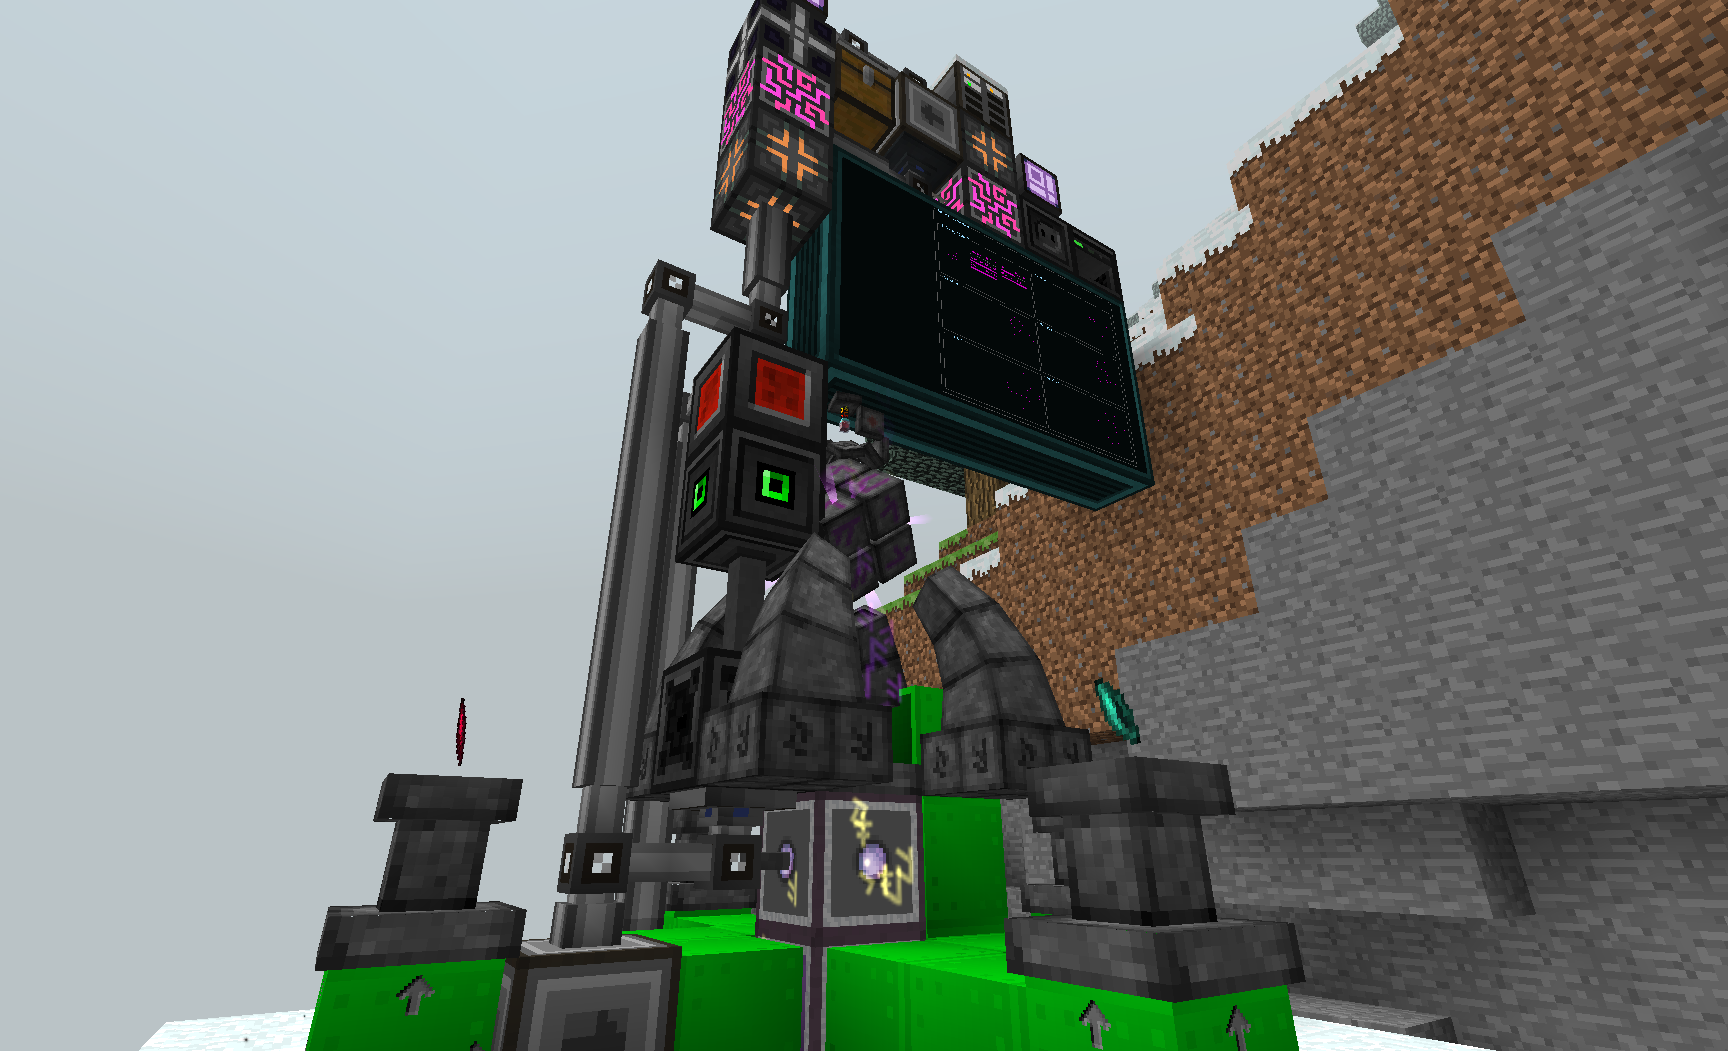
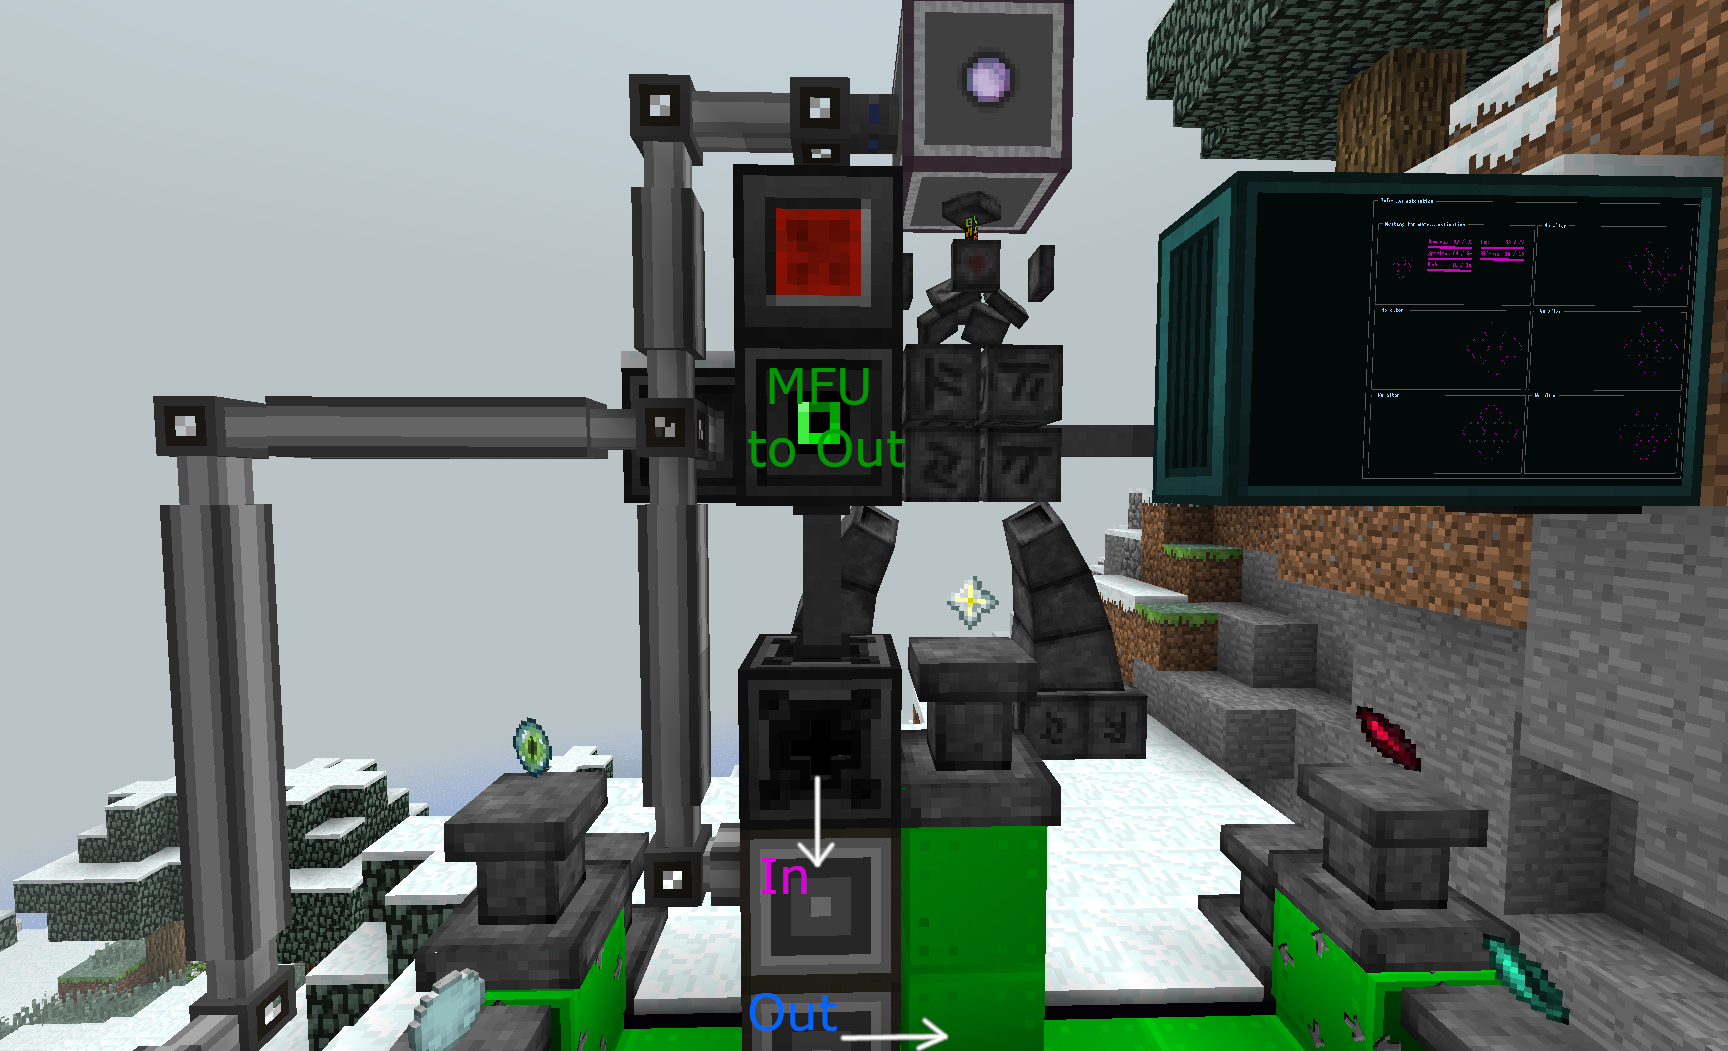
docs(infusion/readme): change pictures
Provide clearer and more understandable pictures

diff --git a/modules/infusion/README.md b/modules/infusion/README.md
@@ -6,7 +6,7 @@ Currently, there are a few things yet to be implemented and a few other to be fi
 * Waits for the essentia to be available before starting the craft
 * Nice graphical Interface shows you the progress of the ongoing infusion even if you are not well versed in the magical arts
 
-<img src="screen.png" alt="screen" width="720"/>
+<img src="screen.png" alt="screen" width="1080"/>
 
 ___
 ___
@@ -23,7 +23,7 @@ First of all, you're gonna make an ME subnetwork. I'm not going to explain this 
 * On the chest, place a storage bus configured to "Extract Only".
 * On the Interface, place two more storage busses. One for items, set to "Insert Only", and one for essentia.
 
-<img src="subnet.png" alt="subnet setup" width="720"/>
+<img src="subnet.png" alt="subnet setup" width="1080"/>
 
 ___
 
@@ -59,4 +59,9 @@ Then place all the other stuff:
 
 You can use an MFU to connect the Adapter wirelessly to the ME Interface that outputs the items to the altar or you can use another Adapter adjacent to it.
 
-<img src="altar.png" alt="altar setup" width="720"/>
+<img src="altar.png" alt="altar setup" width="1080"/>
+
+___
+Anyway, here's the whole thing:
+
+<img src="big-picture.png" alt="altar setup" width="1080"/>
